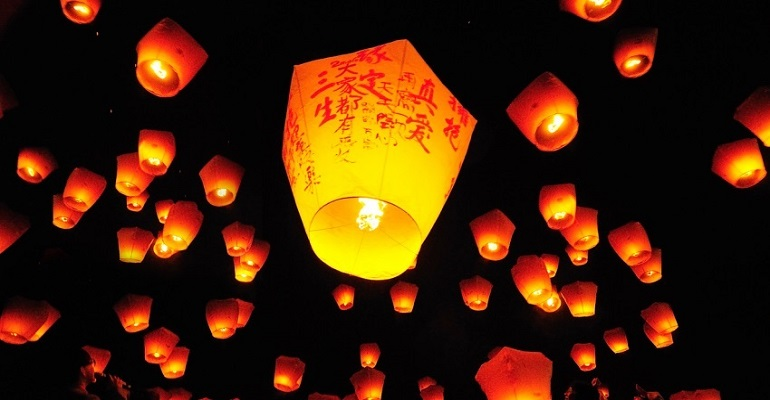
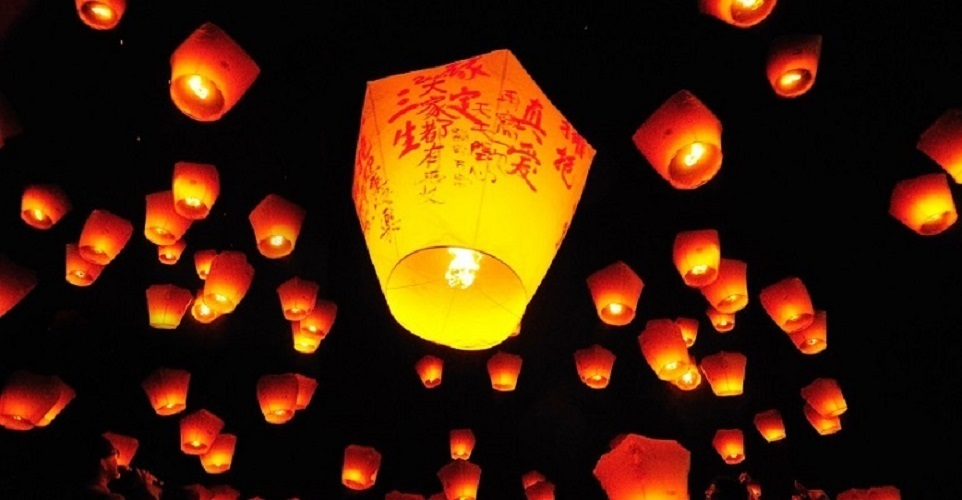
fixed image size and improve css

diff --git a/index.html b/index.html
@@ -3,16 +3,13 @@
 <html prefix='og: http://ogp.me/ns#'>
 
 <head>
-    <title>新住民研習營</title>
-    <meta property="og:title" content="2017 新住民研習營" />
+    <title>果真舒福</title>
+    <meta property="og:title" content="果真舒福" />
     <meta property="og:type" content="website" />
-    <meta property="og:image" content="http://nthucs-camp-2017.tk/images/slider/bg2.jpg" />
-    <meta property="og:image" content="http://nthucs-camp-2017.tk/images/slider/bg1.jpg" />
-    <meta property="og:image" content="http://nthucs-camp-2017.tk/images/slider/bg3.jpg" />
-    <meta property="og:description" content="2017新住民自我介紹" />
+    <meta property="og:description" content="果真舒福產品概念" />
     <meta charset="utf-8">
     <meta name="viewport" content="width=device-width, initial-scale=1.0">
-    <meta name="keywords" content="新住民, 高中生, 大學生, 暑假, 營隊">
+    <!-- <meta name="keywords" content="新住民, 高中生, 大學生, 暑假, 營隊"> -->
     <meta http-equiv="Cache-Control" content="no-store" />
     <!--META HTTP-EQUIV="PRAGMA" CONTENT="NO-CACHE"-->
     <link href="css/bootstrap.min.css" rel="stylesheet">
@@ -26,20 +23,20 @@
         <script src="js/html5shiv.js"></script>
         <script src="js/respond.min.js"></script>
         <![endif]-->
-    <link rel="shortcut icon" href="images/short.ico">
-    <link rel="apple-touch-icon-precomposed" sizes="144x144" href="images/ico/apple-touch-icon-144-precomposed.png">
+    <link rel="shortcut icon" href="images/icon.ico">
+    <!-- <link rel="apple-touch-icon-precomposed" sizes="144x144" href="images/ico/apple-touch-icon-144-precomposed.png">
     <link rel="apple-touch-icon-precomposed" sizes="114x114" href="images/ico/apple-touch-icon-114-precomposed.png">
     <link rel="apple-touch-icon-precomposed" sizes="72x72" href="images/ico/apple-touch-icon-72-precomposed.png">
-    <link rel="apple-touch-icon-precomposed" href="images/ico/apple-touch-icon-57-precomposed.png">
+    <link rel="apple-touch-icon-precomposed" href="images/ico/apple-touch-icon-57-precomposed.png"> -->
 </head>
 <!--/head-->
 
 <body>
 
-    <div id="fb-root"></div>
+    <!-- <div id="fb-root"></div> -->
 
     <header id="header" role="banner">
-        <div class="main-nav">
+        <div class="main-nav fixed-menu animated slideInDown">
             <div class="container">
                 <div class="row">
                     <div class="navbar-header">
@@ -50,15 +47,15 @@
                             <span class="icon-bar"></span>
                         </button>
                         <a class="navbar-brand" href="index.html">
-                            <!-- <img class="img-responsive" src="images/logo.png" alt="logo"> -->
+                            <img style="margin-top:8px;margin-left:24px;" class="img-responsive" src="images/logo_m.png" alt="logo">
                         </a>
                     </div>
                     <div class="collapse navbar-collapse">
                         <ul class="nav navbar-nav navbar-right">
-                            <li class="scroll active"><a href="#home">首頁</a></li>
-                            <li class="scroll"><a href="#about">點子發想</a></li>
-                            <li class="scroll"><a href="#event">關於我們</a></li>
-                            <li class="scroll"><a href="#twitter">經典名言</a></li>
+                            <li class="scroll active"><a style="padding-top:24px; font-size:20px;" href="#home">首頁</a></li>
+                            <li class="scroll"><a style="padding-top:24px; font-size:20px;" href="#about">理想特色</a></li>
+                            <li class="scroll"><a style="padding-top:24px; font-size:20px;" href="#event">關於我們</a></li>
+                            <li class="scroll"><a style="padding-top:24px; font-size:20px;" href="#twitter">經典名言</a></li>
                         </ul>
                     </div>
                 </div>
@@ -76,19 +73,19 @@
             </ol>
             <div class="carousel-inner">
                 <div class="item active">
-                    <img style="max-height:480px;" class="img-responsive" src="images/slider/bg6.jpg" alt="slider">
+                    <img style="max-height:520px;" class="img-responsive" src="images/slider/bg6.jpg" alt="slider">
                     <div class="carousel-caption">
                         <h2>想要認識台灣文化!</h2>
                     </div>
                 </div>
                 <div class="item">
-                    <img style="max-height:480px;" class="img-responsive" src="images/slider/bg5.jpg" alt="slider">
+                    <img style="max-height:520px;" class="img-responsive" src="images/slider/bg5.jpg" alt="slider">
                     <div class="carousel-caption">
                         <h2>新鮮水果</h2>
                     </div>
                 </div>
                 <div class="item">
-                    <img style="max-height:480px;" class="img-responsive" src="images/slider/bg4.jpg" alt="slider">
+                    <img style="max-height:520px;" class="img-responsive" src="images/slider/bg4.jpg" alt="slider">
                     <div class="carousel-caption">
                         <h2>天燈祈福</h2>
                     </div>
@@ -140,14 +137,14 @@
                                             </div>
                                             <h4 style="color:black"><b>職位</b></h4>
                                             <h4>姓名</h4>
-                                            <h5 style="color:black">
+                                            <!-- <h5 style="color:black">
                                                 <em>"未來TED的講者"</em>
-                                            </h5>
+                                            </h5> -->
                                         </div>
                                     </div>
                                     <div class="col-sm-4">
                                         <div class="single-event">
-                                            <div class="wow bounceInDown">
+                                            <div class="wow bounceInUp">
 
 
                                                 <img class="img-responsive img-circle" src="images/event/e2.png" alt="event-image">
@@ -219,35 +216,26 @@
                         <div class="col-sm-6 col-sm-offset-3">
                             <div class="text-center carousel-inner center-block">
                                 <div class="item active">
-                                    <img src="images/twitter/twitter1.png" alt="">
-                                    <p>“hello eveyone”</p>
+                                    <img src="images/twitter/love_light.png" alt="">
+                                    <p>“一杯誠心的祝福&nbsp;‧&nbsp;來自天然的禮物”</p>
                                     <div style="text-align: center" class="fb-page" data-href="https://www.facebook.com/NTHUComputerScienceCamp" data-tabs="timeline" data-width="500" data-height="320" data-small-header="true" data-adapt-container-width="true" data-hide-cover="false" data-show-facepile="true">
                                         <div class="fb-xfbml-parse-ignore">
-                                            <p style="color:#25ABD4">新住民研習營</p>
+                                            <p style="color:#25ABD4">果真舒福</p>
                                         </div>
                                     </div>
                                 </div>
                                 <div class="item">
-                                    <img src="images/twitter/twitter2.png" alt="">
-                                    <p>“hello world”</p>
+                                    <img src="images/twitter/hope.png" alt="">
+                                    <p>“Blessing you from our natural gifts”</p>
                                     <div style="text-align: center" class="fb-page" data-href="https://www.facebook.com/NTHUComputerScienceCamp" data-tabs="timeline" data-width="500" data-height="320" data-small-header="true" data-adapt-container-width="true" data-hide-cover="false" data-show-facepile="true">
                                         <div class="fb-xfbml-parse-ignore">
-                                            <p style="color:#25ABD4">新住民研習營</p>
-                                        </div>
-                                    </div>
-                                </div>
-                                <div class="item">
-                                    <img src="images/twitter/twitter3.png" alt="">
-                                    <p>“hello taiwan”</p>
-                                    <div style="text-align: center" class="fb-page" data-href="https://www.facebook.com/NTHUComputerScienceCamp" data-tabs="timeline" data-width="500" data-height="320" data-small-header="true" data-adapt-container-width="true" data-hide-cover="false" data-show-facepile="true">
-                                        <div class="fb-xfbml-parse-ignore">
-                                            <p style="color:#25ABD4">新住民研習營</p>
+                                            <p style="color:#25ABD4">果真舒福</p>
                                         </div>
                                     </div>
                                 </div>
                             </div>
-                            <a class="twitter-control-left" href="#twitter-feed" data-slide="prev"><i style="color:#EC5D2E" class="fa fa-angle-left"></i></a>
-                            <a class="twitter-control-right" href="#twitter-feed" data-slide="next"><i style="color:#EC5D2E" class="fa fa-angle-right"></i></a>
+                            <a class="twitter-control-left" href="#twitter-feed" data-slide="prev"><i style="color:#EC5D2E" class="fa fa-angle-left fa-2x"></i></a>
+                            <a class="twitter-control-right" href="#twitter-feed" data-slide="next"><i style="color:#EC5D2E" class="fa fa-angle-right fa-2x"></i></a>
                         </div>
                     </div>
 
@@ -280,6 +268,8 @@
             <footer id="footer">
                 <div class="container">
                     <div class="text-center">
+                        <span style="font-size:x-small;">Not use for commercial purpose </span>
+                        <br/>
                         <span style="font-size:x-small;">Templated from <a target="_blank" href="http://shapebootstrap.net/">ShapeBootstrap </a> </span>
                     </div>
                 </div>

diff --git a/js/main.js b/js/main.js
@@ -18,19 +18,19 @@ jQuery(function($) {
     function menuToggle() {
         var windowWidth = $(window).width();
 
-        if (windowWidth > 767) {
-            $(window).on('scroll', function() {
-                if ($(window).scrollTop() > 405) {
-                    $('.main-nav').addClass('fixed-menu animated slideInDown');
-                } else {
-                    $('.main-nav').removeClass('fixed-menu animated slideInDown');
-                }
-            });
-        } else {
+        // if (windowWidth > 767) {
+        //     $(window).on('scroll', function() {
+        //         if ($(window).scrollTop() > 405) {
+        //             $('.main-nav').addClass('fixed-menu animated slideInDown');
+        //         } else {
+        //             $('.main-nav').removeClass('fixed-menu animated slideInDown');
+        //         }
+        //     });
+        // } else {
 
-            $('.main-nav').addClass('fixed-menu animated slideInDown');
+        //     $('.main-nav').addClass('fixed-menu animated slideInDown');
 
-        }
+        // }
     }
 
     menuToggle();

diff --git a/css/main.css b/css/main.css
@@ -59,7 +59,7 @@ h2 {
 }
 
 .navbar-toggle {
-    margin-top: 12px
+    margin-top: 18px
 }
 
 .navbar-toggle .icon-bar {
@@ -87,6 +87,7 @@ h2 {
     position: absolute;
     width: 100%;
     z-index: 999;
+    height: 75px;
 }
 
 .main-nav .container {
@@ -141,6 +142,7 @@ h2 {
     text-transform: uppercase;
     font-family: 'Yanone Kaffeesatz', 'sans-serif';
     font-weight: 300;
+    height:75px;
 }
 
 .navbar-right li a:hover,
